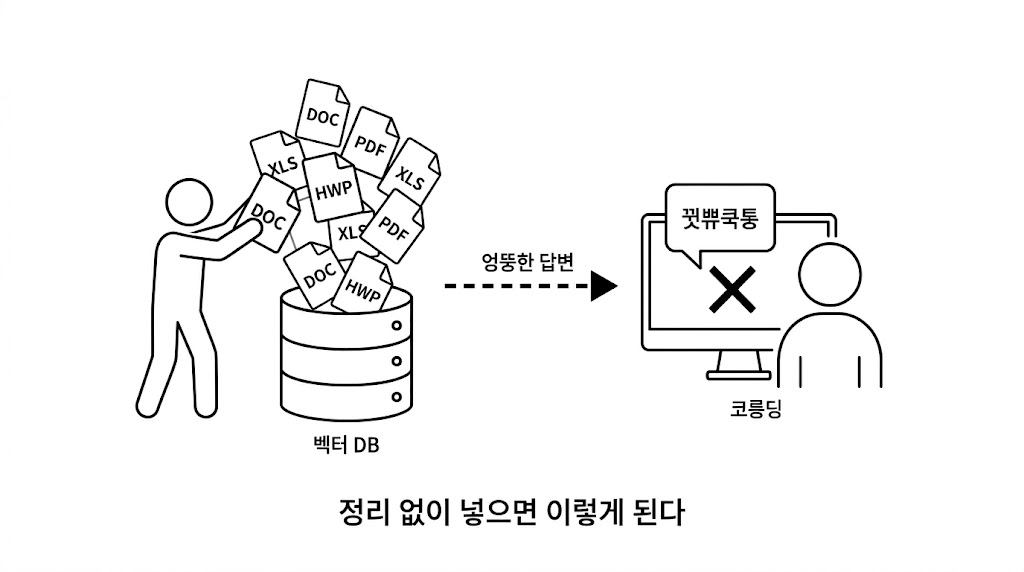
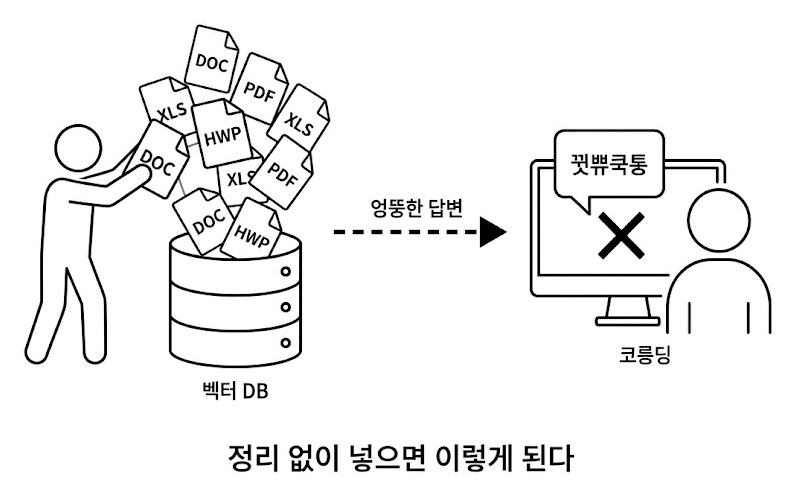
fix(사내AI비서): 챕터 오프닝·개념도 이미지 여백 크롭
- CH03/CH06/CH08 개념 이미지 4장 내부 여백 autocrop
  (03_chapter-opening, 06_librarian-two-rooms,
   08_chunking-evolution, 08_rerank-hybrid)
- tokens.css: 오프닝 히어로 이미지 70% 규칙을 chapter-opening
  전체로 일반화 (02·03 공통 적용)
- CH03 오프닝 크롭+확대로 p9 공백 해소, CH02·04·11 클린 유지

diff --git a/projects/사내AI비서_v2/.build/tokens.css b/projects/사내AI비서_v2/.build/tokens.css
@@ -1,9 +1,9 @@
 /* 사내AI비서 프로젝트 오버라이드 — 화면·PDF 공통 적용 (CSS cascade)
    브랜드 토큰 변수 외에 이 책 전용 그림 크기 예외를 담는다. */
 
-/* 그림 2-1 챕터 오프닝 개념도: autocrop 후 확대. gemini 기본 50%는 이 그림에 작음.
-   src 속성 선택자로 이 이미지 하나만 지정 — 다른 gemini 개념도는 기본값 유지 */
-.chapter-image.gemini img[src*="02_chapter-opening"] {
+/* 챕터 오프닝 개념도: autocrop 후 확대. gemini 기본 50%는 오프닝 히어로 그림에 작음.
+   src 속성 선택자로 오프닝 이미지만 지정 — 다른 gemini 개념도는 기본값 유지 */
+.chapter-image.gemini img[src*="chapter-opening"] {
   max-width: 70%;
   max-height: 9cm;
 }
